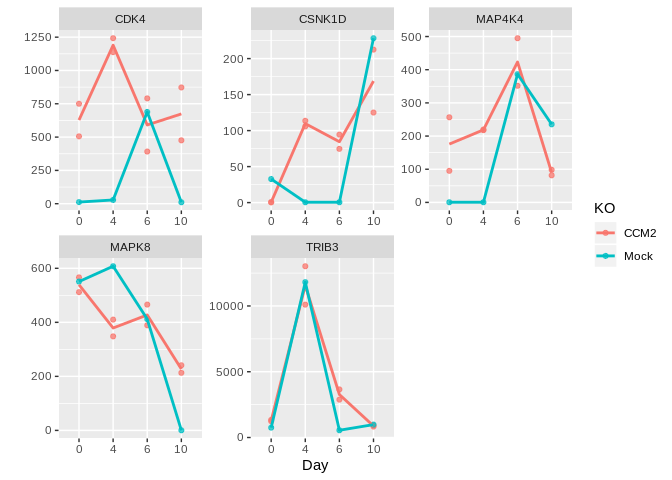
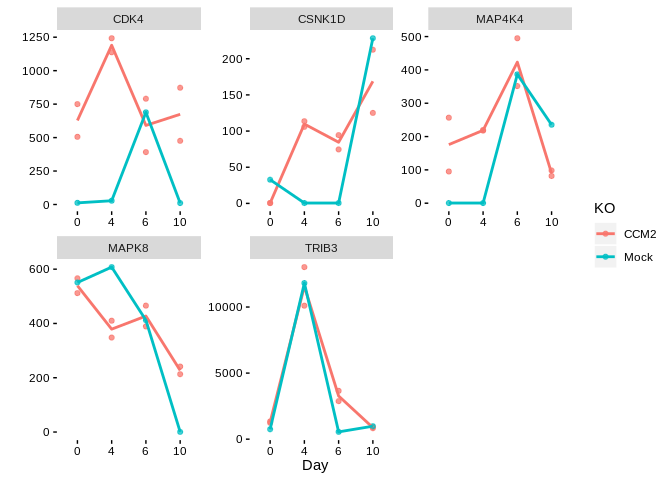
updating formatting on H7 analysis

diff --git a/analysis/H7_differentiation/H7_differentiation_analysis.md b/analysis/H7_differentiation/H7_differentiation_analysis.md
@@ -10,8 +10,6 @@ Read In Data/Experimental Design
 H7_exp_data = read_csv(here('RNAseq_results/CCM2H7/sample_data.csv'))
 ```
 
-    ## Warning: Missing column names filled in: 'X1' [1]
-
     ## Parsed with column specification:
     ## cols(
     ##   X1 = col_character(),
@@ -222,78 +220,11 @@ ggplot(top_five_count_data,aes(x = Day, y = count, color = KO, group = KO)) +
   geom_point(alpha=0.75) + 
   facet_wrap(~HGNC, scales="free") +
   geom_smooth(se = FALSE, method = "loess", alpha=0.75) +
-  labs(y="")
-```
-
-![](H7_differentiation_analysis_files/figure-markdown_github/top_five_kinase_plots-1.png)
-
-``` r
+  labs(y="") + 
   BerginskiRMisc::theme_berginski()
 ```
 
-    ## List of 8
-    ##  $ axis.title.x    :List of 11
-    ##   ..$ family       : NULL
-    ##   ..$ face         : NULL
-    ##   ..$ colour       : NULL
-    ##   ..$ size         : NULL
-    ##   ..$ hjust        : NULL
-    ##   ..$ vjust        : NULL
-    ##   ..$ angle        : NULL
-    ##   ..$ lineheight   : NULL
-    ##   ..$ margin       : 'margin' num [1:4] 1.5pt 0pt 0pt 0pt
-    ##   .. ..- attr(*, "valid.unit")= int 8
-    ##   .. ..- attr(*, "unit")= chr "pt"
-    ##   ..$ debug        : NULL
-    ##   ..$ inherit.blank: logi FALSE
-    ##   ..- attr(*, "class")= chr [1:2] "element_text" "element"
-    ##  $ axis.title.y    :List of 11
-    ##   ..$ family       : NULL
-    ##   ..$ face         : NULL
-    ##   ..$ colour       : NULL
-    ##   ..$ size         : NULL
-    ##   ..$ hjust        : NULL
-    ##   ..$ vjust        : NULL
-    ##   ..$ angle        : NULL
-    ##   ..$ lineheight   : NULL
-    ##   ..$ margin       : 'margin' num [1:4] 0pt 1.5pt 0pt 0pt
-    ##   .. ..- attr(*, "valid.unit")= int 8
-    ##   .. ..- attr(*, "unit")= chr "pt"
-    ##   ..$ debug        : NULL
-    ##   ..$ inherit.blank: logi FALSE
-    ##   ..- attr(*, "class")= chr [1:2] "element_text" "element"
-    ##  $ axis.text       :List of 11
-    ##   ..$ family       : NULL
-    ##   ..$ face         : NULL
-    ##   ..$ colour       : chr "black"
-    ##   ..$ size         : NULL
-    ##   ..$ hjust        : NULL
-    ##   ..$ vjust        : NULL
-    ##   ..$ angle        : NULL
-    ##   ..$ lineheight   : NULL
-    ##   ..$ margin       : NULL
-    ##   ..$ debug        : NULL
-    ##   ..$ inherit.blank: logi FALSE
-    ##   ..- attr(*, "class")= chr [1:2] "element_text" "element"
-    ##  $ axis.ticks      :List of 6
-    ##   ..$ colour       : chr "black"
-    ##   ..$ size         : NULL
-    ##   ..$ linetype     : NULL
-    ##   ..$ lineend      : NULL
-    ##   ..$ arrow        : logi FALSE
-    ##   ..$ inherit.blank: logi FALSE
-    ##   ..- attr(*, "class")= chr [1:2] "element_line" "element"
-    ##  $ panel.background: list()
-    ##   ..- attr(*, "class")= chr [1:2] "element_blank" "element"
-    ##  $ panel.grid      : list()
-    ##   ..- attr(*, "class")= chr [1:2] "element_blank" "element"
-    ##  $ panel.grid.major: list()
-    ##   ..- attr(*, "class")= chr [1:2] "element_blank" "element"
-    ##  $ panel.grid.minor: list()
-    ##   ..- attr(*, "class")= chr [1:2] "element_blank" "element"
-    ##  - attr(*, "class")= chr [1:2] "theme" "gg"
-    ##  - attr(*, "complete")= logi FALSE
-    ##  - attr(*, "validate")= logi TRUE
+![](H7_differentiation_analysis_files/figure-markdown_github/top_five_kinase_plots-1.png)
 
 Dark Kinases
 ------------
